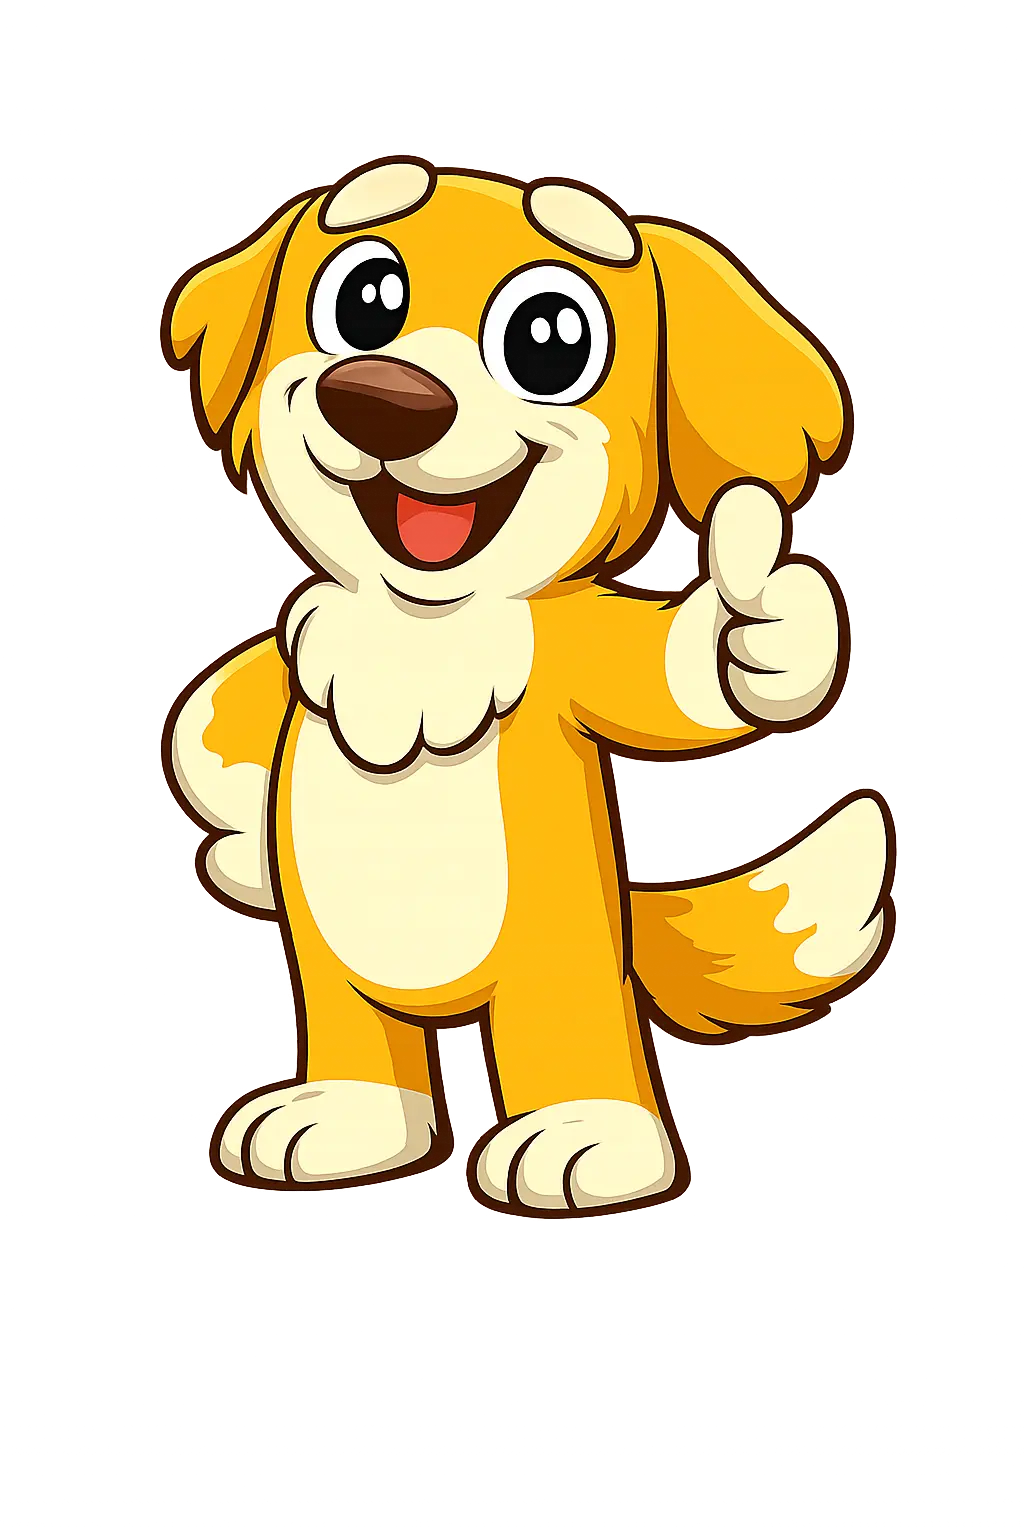
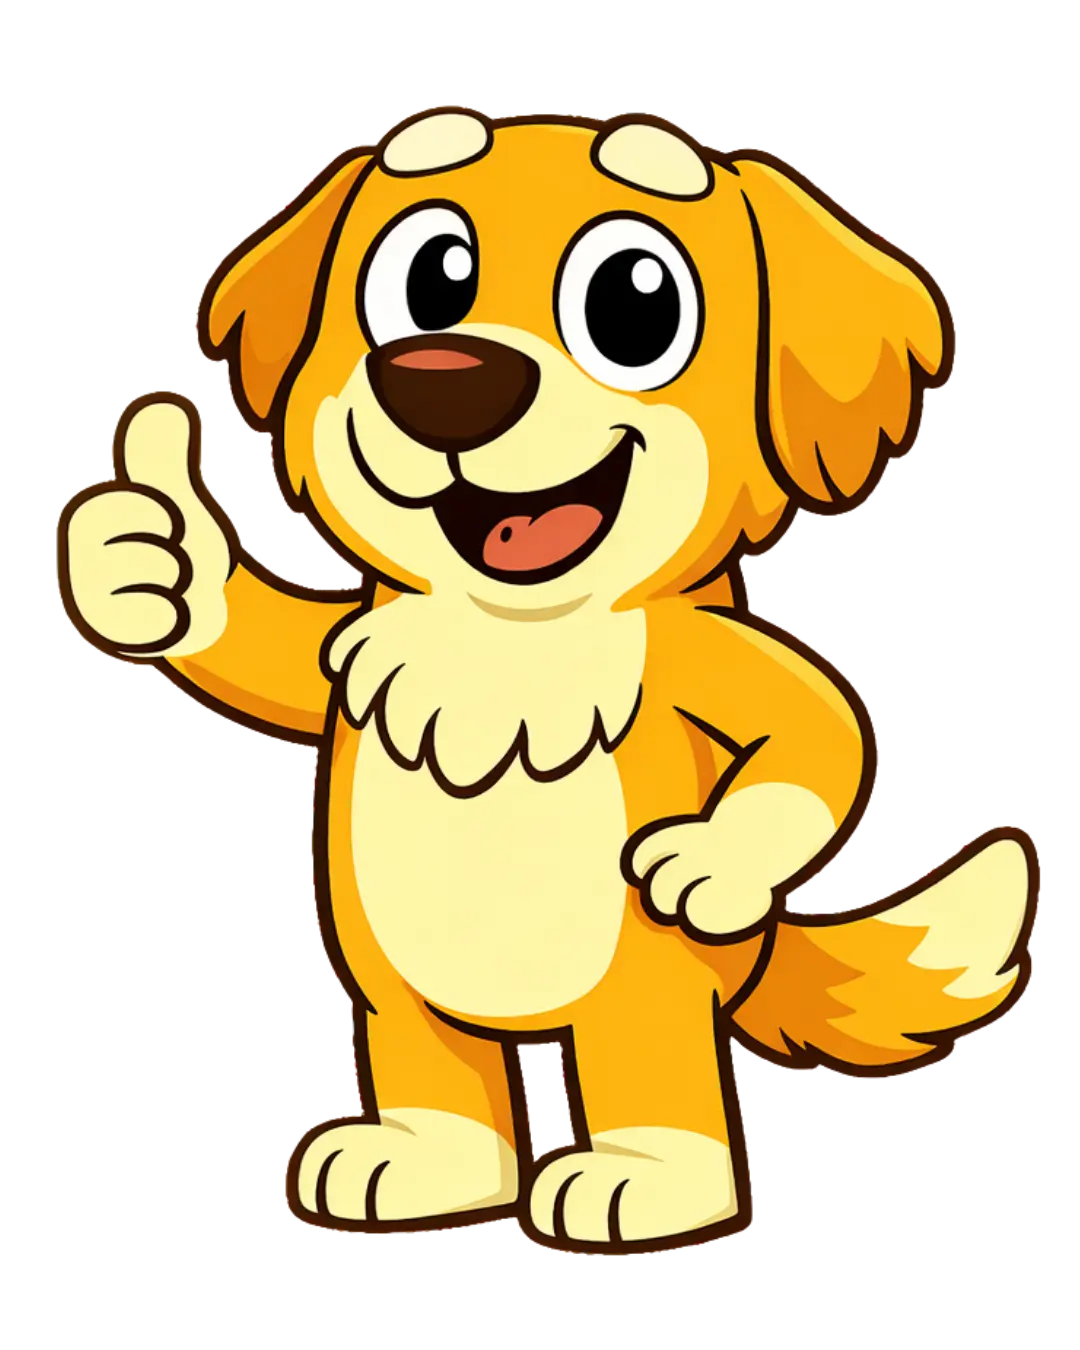
added images and fixed delete button

diff --git a/src/features/admin/adminModuleCustomisation.js b/src/features/admin/adminModuleCustomisation.js
@@ -383,13 +383,30 @@ window.deleteModule = async function() {
 
     try {
         const moduleToDelete = selectedModule;
-        const { data: assignments } = await supabase.from('child_modules').select('id').eq('module_id', moduleToDelete.id);
-        if (assignments) for (const a of assignments) await supabase.from('child_modules').delete().eq('id', a.id);
-        const { data: parentAssignments } = await supabase.from('parent_modules').select('id').eq('module_id', moduleToDelete.id);
-        if (parentAssignments) for (const a of parentAssignments) await supabase.from('parent_modules').delete().eq('id', a.id);
-        if (moduleToDelete.storage_path) await supabase.storage.from('modules').remove([moduleToDelete.storage_path]);
-        await supabase.from('modules_to_generate').delete().eq('generated_module_id', moduleToDelete.id);
-        const { error } = await supabase.from('modules').delete().eq('id', moduleToDelete.id);
+        const moduleId = moduleToDelete.id;
+
+        // Bulk-delete all referencing rows. Each delete checks for errors so we can surface them.
+        const cleanupTables = [
+            'child_modules',
+            'parent_modules',
+            'module_variants',
+            'child_module_progress',
+            'module_audit_results',
+        ];
+        for (const tbl of cleanupTables) {
+            const { error: delErr } = await supabase.from(tbl).delete().eq('module_id', moduleId);
+            // Ignore "table does not exist" but surface anything else
+            if (delErr && !/does not exist|relation .* does not exist/i.test(delErr.message || '')) {
+                throw new Error(`Failed clearing ${tbl}: ${delErr.message}`);
+            }
+        }
+
+        await supabase.from('modules_to_generate').delete().eq('generated_module_id', moduleId);
+        if (moduleToDelete.storage_path) {
+            await supabase.storage.from('modules').remove([moduleToDelete.storage_path]);
+        }
+
+        const { error } = await supabase.from('modules').delete().eq('id', moduleId);
         if (error) throw error;
 
         setSelectedModule(null);
